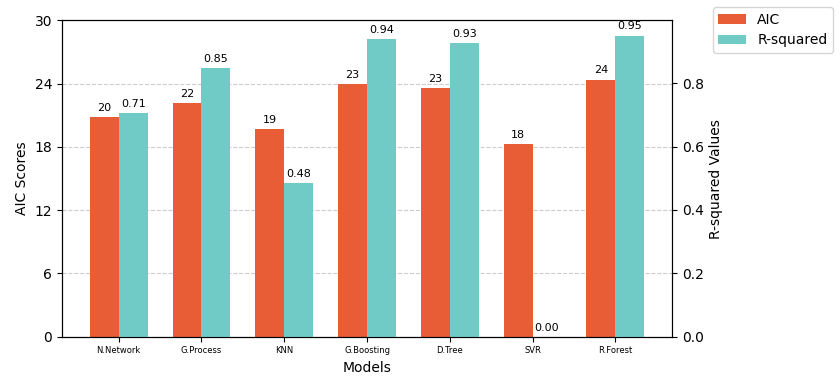
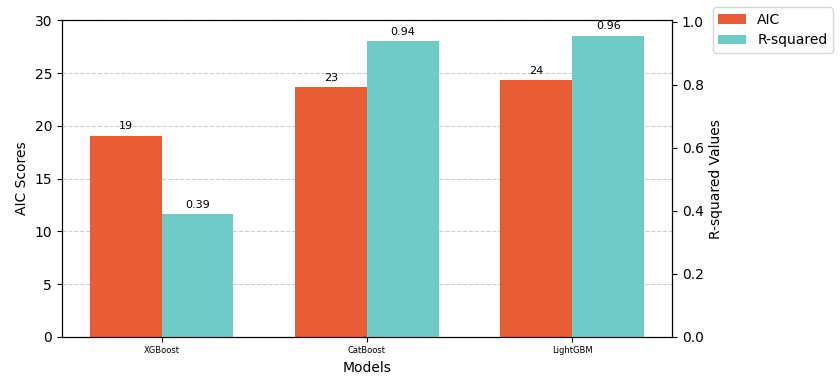
modeling

diff --git a/modelSelection.py b/modelSelection.py
@@ -1,43 +1,28 @@
 import numpy as np
 from sklearn.metrics import mean_squared_error
 from sklearn.metrics import r2_score
-from sklearn.linear_model import LinearRegression
-from sklearn.svm import SVR
-from sklearn.tree import DecisionTreeRegressor
-from sklearn.ensemble import GradientBoostingRegressor
-from sklearn.ensemble import RandomForestRegressor
-from sklearn.neighbors import KNeighborsRegressor
-from sklearn.gaussian_process import GaussianProcessRegressor
-from sklearn.neural_network import MLPRegressor
 import matplotlib.pyplot as plt
-
+from catboost import CatBoostRegressor
+import lightgbm as lgb
+import xgboost as xgb
 
 def selection(X_validation, y_validation, X_train, y_train):
     results = []
-    models = ["Neural Network", "Gaussian Process", "KNN", "Gradient Boosting", "Decision Tree", "SVR", "Random Forest"]
+    models = ["XGBoost", "CatBoost", "LightGBM"]
+
     aic_scores = []
     r_squared_values = []
-    
+
     for model_type in models:
         # Create and train the model
-        if model_type == "Linear Regression":
-            model = LinearRegression()
-        elif model_type == "SVR":
-            model = SVR()
-        elif model_type == "Decision Tree":
-            model = DecisionTreeRegressor()
-        elif model_type == "Gradient Boosting":
-            model = GradientBoostingRegressor()
-        elif model_type == "Random Forest":
-            model = RandomForestRegressor()
-        elif model_type == "KNN":
-            model = KNeighborsRegressor()
-        elif model_type == "Gaussian Process":
-            model = GaussianProcessRegressor()
-        elif model_type == "Neural Network":
-            model = MLPRegressor()
-        else:
-            raise ValueError("Invalid model type")
+        if model_type == "XGBoost":
+            model = xgb.XGBRegressor(objective='reg:squarederror', colsample_bytree=0.3, learning_rate=0.1,
+                                     max_depth=5, alpha=10, n_estimators=10)
+        elif model_type == "CatBoost":
+            model = CatBoostRegressor(iterations=50, depth=3, learning_rate=0.1, loss_function='RMSE')
+        elif model_type == "LightGBM":
+            model = lgb.LGBMRegressor(objective='regression', metric='mse', boosting_type='gbdt',
+                                      num_leaves=31, learning_rate=0.05, num_boost_round=100)
 
         model.fit(X_train, y_train)
 
@@ -48,12 +33,12 @@ def selection(X_validation, y_validation, X_train, y_train):
         mse = mean_squared_error(y_validation, y_pred_validation)
 
         # Get the number of model parameters
-        num_params = model.n_features_in_
+        num_params = model.n_features_in_ if hasattr(model, 'n_features_in_') else len(model.feature_importances_)
 
         # Calculate AIC
         n = len(y_validation)
         AIC = -2 * np.log(mse) + 2 * num_params
-        aic_scores.append( AIC)  # Take the absolute value of AIC scores
+        aic_scores.append(AIC)  # Take the absolute value of AIC scores
 
         # Calculate R-squared
         r_squared = r2_score(y_validation, y_pred_validation)
@@ -61,21 +46,20 @@ def selection(X_validation, y_validation, X_train, y_train):
             r_squared = 0
         r_squared_values.append(r_squared)
 
-
-
-        x = np.arange(len(models))
-        width = 0.35
+    x = np.arange(len(models))
+    width = 0.35
 
     fig, ax = plt.subplots(figsize=(8.4, 3.9))  # Set the desired width and height of the plot
-    modelss = ["N.Network", "G.Process", "KNN", "G.Boosting", "D.Tree", "SVR", "R.Forest"]
+    modelss = ["XGBoost", "CatBoost", "LightGBM"]
+
     # AIC scores
-    bar1 = ax.bar(x - width/2, aic_scores, width, color='#E85D35', alpha=1, label='AIC',zorder=2)
+    bar1 = ax.bar(x - width / 2, aic_scores, width, color='#E85D35', alpha=1, label='AIC', zorder=2)
     ax.set_xlabel('Models')
     ax.set_ylabel('AIC Scores')
 
     # Adjusted R-squared values
     ax2 = ax.twinx()  # Create a twin axes sharing the x-axis
-    bar2 = ax2.bar(x + width/2, r_squared_values, width, color='#70CAC6', alpha=1, label='R-squared',zorder=1)
+    bar2 = ax2.bar(x + width / 2, r_squared_values, width, color='#70CAC6', alpha=1, label='R-squared', zorder=1)
     ax2.set_ylabel('R-squared Values')
 
     ax.set_xticks(x)
@@ -93,13 +77,10 @@ def selection(X_validation, y_validation, X_train, y_train):
     for rect in bar2:
         height = rect.get_height()
         ax2.annotate(f'{height:.2f}', xy=(rect.get_x() + rect.get_width() / 2, height), xytext=(0, 3),
-                    textcoords="offset points", ha='center', va='bottom', fontsize=8)
+                     textcoords="offset points", ha='center', va='bottom', fontsize=8)
 
     fig.tight_layout()
     fig.legend(loc='upper right', bbox_to_anchor=(1, 1))
     fig.subplots_adjust(right=0.8)
     plt.savefig('D:\\DataProject\\venv\\inrhMicroalgae\\result\\modelSelection.png')
     plt.show()
-
-
-

diff --git a/main.py b/main.py
@@ -11,7 +11,6 @@ plot_correlation_heatmap(df)
 target_column = 'CellDensity'  
 feature_columns = ['Temperature', 'LightIntensity','Salinity','Day', 'lightTime','darkTime','CM_f2','CM_map','CM_npk']  
 
-
 model = regression_model(df, feature_columns,target_column)
 
 Temperature= [24,26, 28, 30,32]
